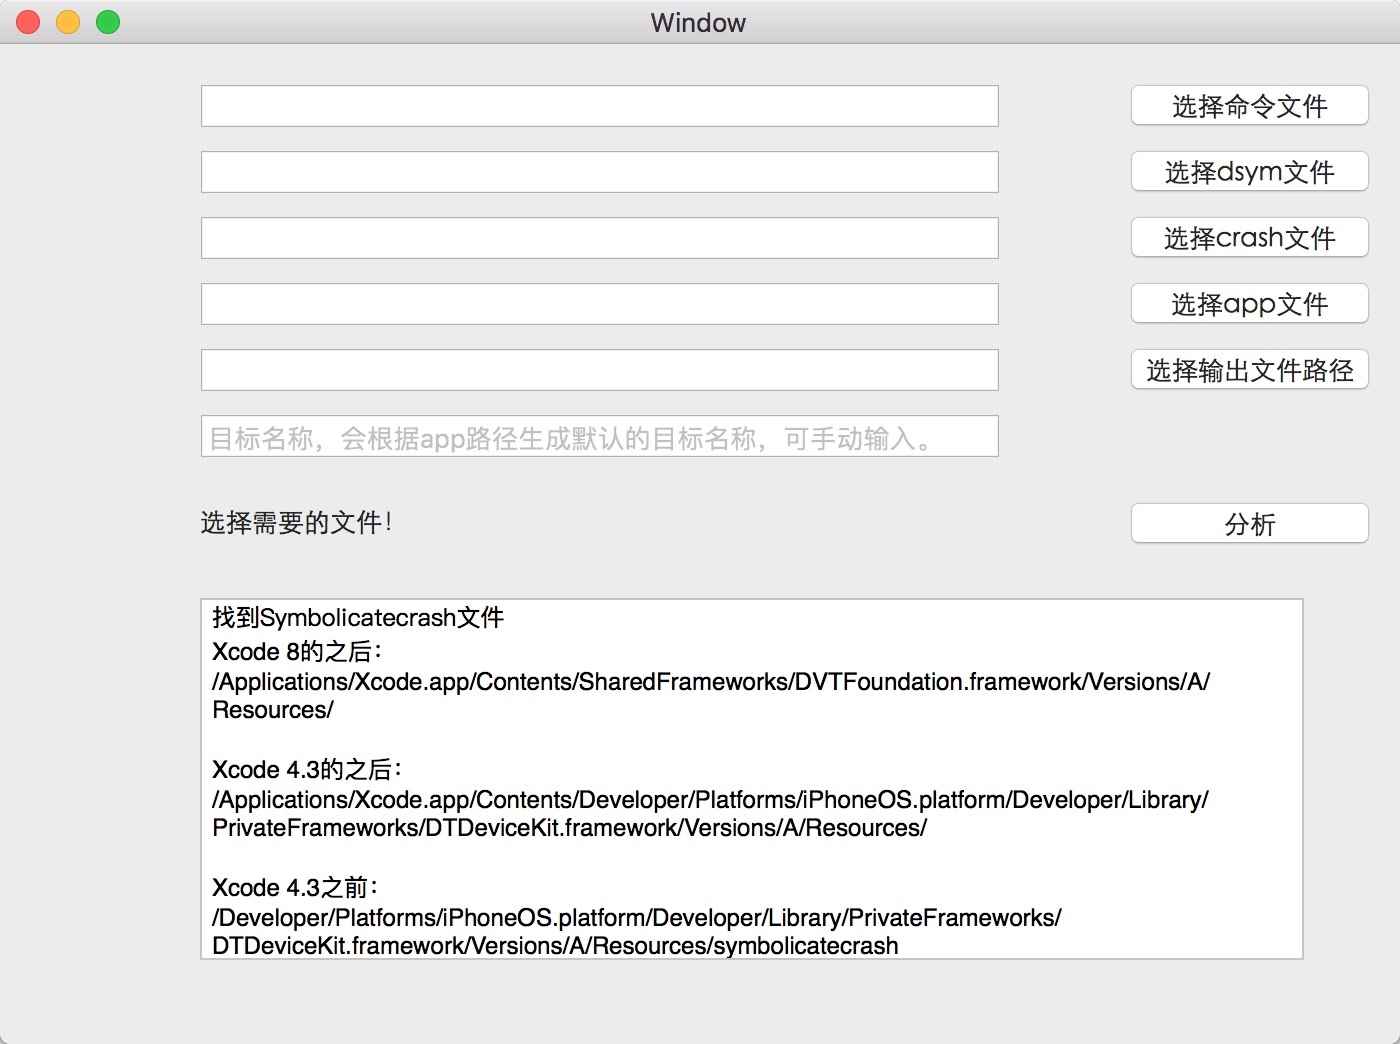
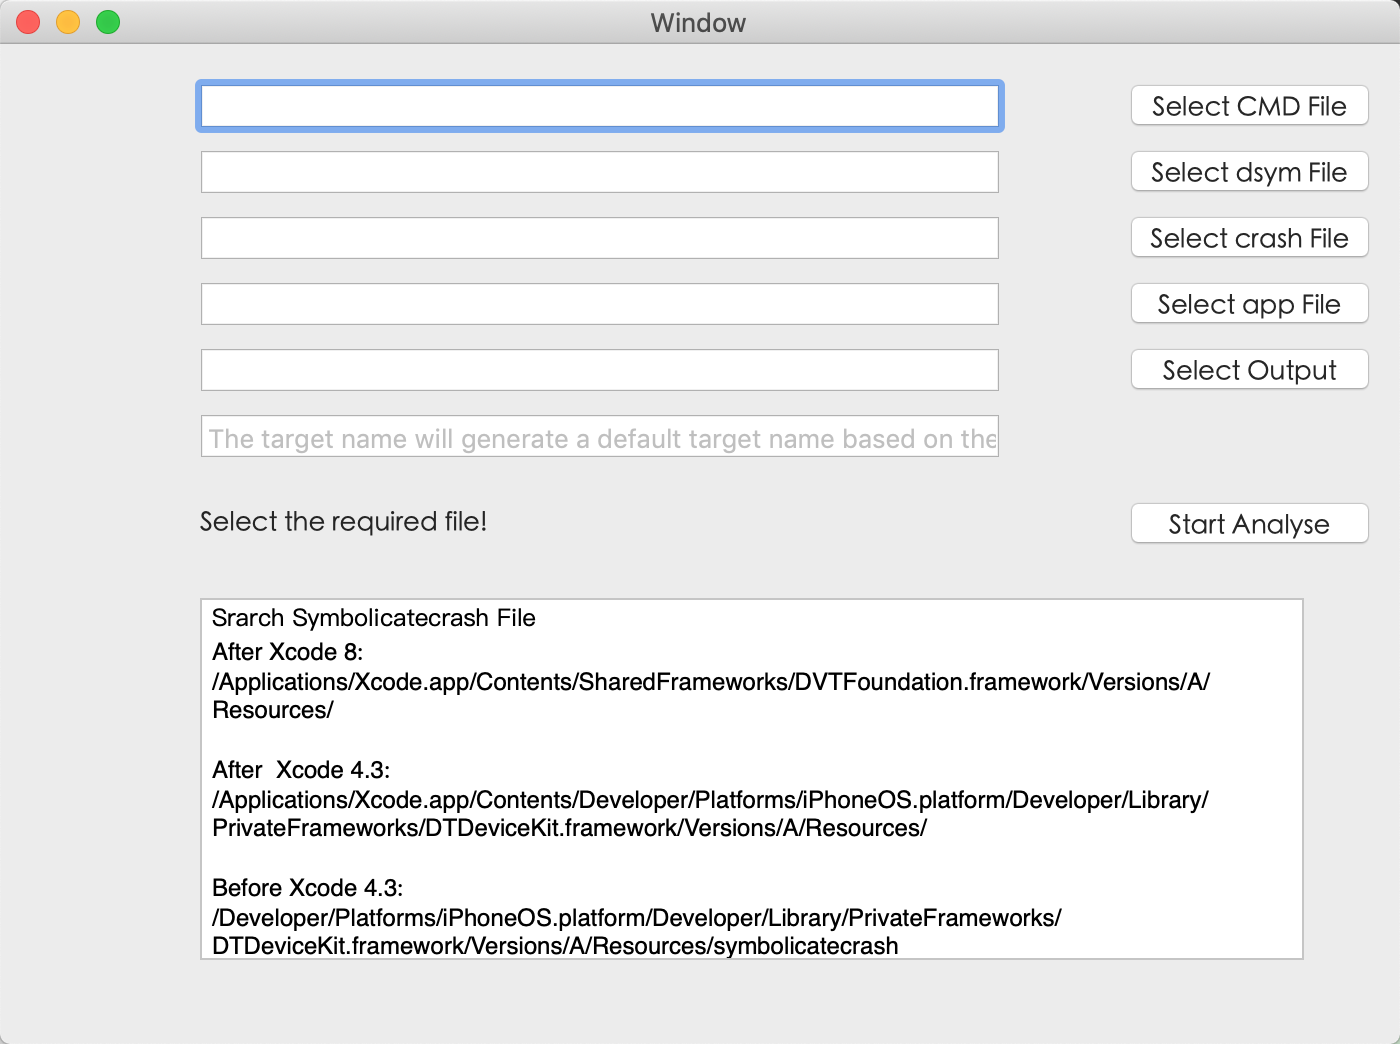
modify localizable

diff --git a/CrashAnalyse/util/Localizable/CULocalizableManager.m b/CrashAnalyse/util/Localizable/CULocalizableManager.m
@@ -1,0 +1,38 @@
+//
+//  CULocalizableManager.m
+//  CrashAnalyse
+//
+//  Created by lijunjie on 1/25/19.
+//  Copyright (c) 2019 lijunjie. All rights reserved.
+//
+
+#import "CULocalizableManager.h"
+
+@implementation CULocalizableManager
+
++ (instancetype)share
+{
+    static CULocalizableManager *localizableManager = nil;
+    static dispatch_once_t onceToken;
+    dispatch_once(&onceToken, ^{
+        localizableManager = [[CULocalizableManager alloc] init];
+        [localizableManager setLocalLangage:@"Base"];
+    });
+    return localizableManager;
+}
+
+- (void)setLocalLangage:(NSString *)localLanguage
+{
+    NSString *local = @"zh-Hans";
+    if(localLanguage)
+    {
+        local = localLanguage;
+    }
+    NSString * bundlePath = [[NSBundle mainBundle] pathForResource:@"CUResources" ofType:@"bundle"];
+    
+    NSBundle *resourceBundle = [NSBundle bundleWithPath:bundlePath];
+    NSString *languagePath = [resourceBundle pathForResource:local ofType:@"lproj"];
+    _bundle = [NSBundle bundleWithPath:languagePath];
+}
+
+@end

diff --git a/CrashAnalyse/ViewController.m b/CrashAnalyse/ViewController.m
@@ -179,7 +179,7 @@
                 NSString *savePath = [NSString stringWithFormat:@"%@/%@.log",_outPath,[_crashPath lastPathComponent]];
                 [res writeToFile:savePath atomically:YES encoding:NSUTF8StringEncoding error:nil];
                 isSuccess = YES;
-                info = [NSString stringWithFormat:@"成功执行完成:%@",savePath];
+                info = [NSString stringWithFormat:@"Done:%@",savePath];
             }
         } else {
             info = @"找不到dwarfdump命令，无法比较UUID";

diff --git a/CrashAnalyse/util/Localizable/CULocalizableManager.h b/CrashAnalyse/util/Localizable/CULocalizableManager.h
@@ -1,0 +1,22 @@
+//
+//  CULocalizableManager.h
+//  CrashAnalyse
+//
+//  Created by lijunjie on 1/25/19.
+//  Copyright (c) 2019 lijunjie. All rights reserved.
+//
+
+#import <Foundation/Foundation.h>
+
+#define CULocalizedString(key) [[CULocalizableManager share].bundle localizedStringForKey:(key) value:@"" table:@"CULocalizable"]
+
+@interface CULocalizableManager : NSObject
+{
+    
+}
+
+@property(nonatomic, strong)NSBundle *bundle;
+
++ (instancetype)share;
+
+@end

diff --git a/README.md b/README.md
@@ -1,8 +1,13 @@
 # CrashAnalyse
-iOS崩溃日志分析，省的敲各种命令。
-## 需要完成的功能（首先要选择输入文件）。
-	1.首先检查文件是不是存在，命令行文件（默认提供一个命令行文件），dsym文件（手动选择dsym文件并记录路径方便下次自动选择），崩溃日志文件（手动选择日志文件并记录方便下次自动选择），设置输出文件路径（手动选择输出路径并记录方便下次自动选择）。
-	2.检查UUID是否一致。
-	3.支持使用自己的命令行文件替换掉默认的就行。
-	4.支持批量分析导出。
+
+    iOS crash log analysis, provinces knock various commands.
+
+## The function that needs to be completed (first select the input file)
+<pre>
+1. First check if the file exists, command line file (providing a command line file by default), dsym file (manually select dsym file and record path to facilitate automatic selection next time), crash log file (manually select log file and record conveniently Sub-automatic selection), set the output file path (manually select the output path and record for the next automatic selection).
+2. Check if the UUID is consistent.
+3. Support to replace the default with your own command line file.
+4. Support batch analysis and export.
+</pre>
 <img src="https://raw.githubusercontent.com/itlijunjie/CrashAnalyse/master/screen%20capture.png" width="640px"></br>
+<img src="https://raw.githubusercontent.com/itlijunjie/CrashAnalyse/master/screen%20capture_ch.png" width="640px"></br>

diff --git a/README_ch.md b/README_ch.md
@@ -1,0 +1,11 @@
+# CrashAnalyse
+iOS崩溃日志分析，省的敲各种命令。
+## 需要完成的功能（首先要选择输入文件）。
+<pre>
+1.首先检查文件是不是存在，命令行文件（默认提供一个命令行文件），dsym文件（手动选择dsym文件并记录路径方便下次自动选择），崩溃日志文件（手动选择日志文件并记录方便下次自动选择），设置输出文件路径（手动选择输出路径并记录方便下次自动选择）。
+2.检查UUID是否一致。
+3.支持使用自己的命令行文件替换掉默认的就行。
+4.支持批量分析导出。
+</pre>
+<img src="https://raw.githubusercontent.com/itlijunjie/CrashAnalyse/master/screen%20capture.png" width="640px"></br>
+<img src="https://raw.githubusercontent.com/itlijunjie/CrashAnalyse/master/screen%20capture_ch.png" width="640px"></br>
